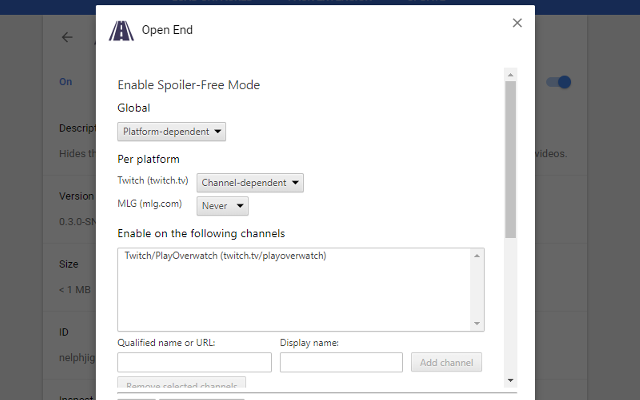
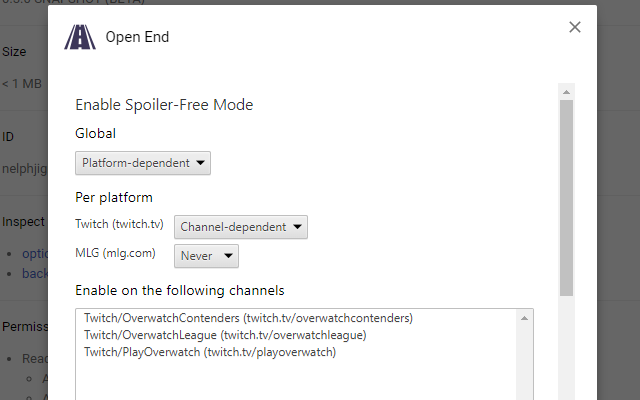
minor: Updated options screenshots, fixed chrome store descr DE
- And enhanced todo.md

diff --git a/tmp/todo.md b/tmp/todo.md
@@ -7,8 +7,6 @@
   - Doc: How to time jump while keep full screen
     - [x] Auto enter Theatre Mode and enable Chrome full screen mode (F11)
     - -> Solved if we only use rapid seeking
-- bug hunt
-- Update version to 0.3.0 (no SNAPSHOT)
 
 # TODO version 0.3.x
 
@@ -27,3 +25,9 @@
   - Predefined: default, Overwatch (twitch.tv/overwatchleague, twitch.tv/overwatchcontenders, 3m, hide non-full-day VODs on twitch.tv/overwatchleague)
   - Profile selectable on popup and options -> options are changed accordingly
   - Current cfg storable as profile on options
+  
+# General TODO before release
+- Bug test
+- Search for console.log
+- Set LOG_ENABLED = false in common.js
+- Update version to non SNAPSHOT

diff --git a/tmp/chrome-store-description.md b/tmp/chrome-store-description.md
@@ -1,7 +1,6 @@
 # Detailed Description
 
 - Copied (and translated) from README.md.
-- Use ・ as an enumeration symbol.
 
 ## English
 
@@ -12,6 +11,6 @@
 ## German
 
 - Versteckt den Fortschritt und die Dauer des aktuell abgespielten Videos.
-- Versteckt den Titel, die Vorschau und die Dauer von anderen Videos (vorgeschlagene/ähnliche Videos oder Videos in Videolisten)
+- Versteckt den Titel, die Vorschau und die Dauer von anderen Videos (vorgeschlagene/ähnliche Videos oder Videos in Videolisten).
 - Bietet eine Video-Navigations-Leiste im Videoplayer als Ersatz für den ausgeblendeten Fortschrittsbalken.
 
